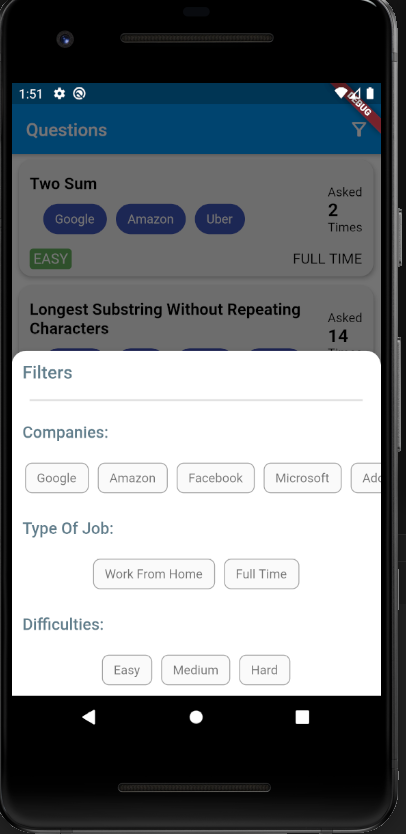
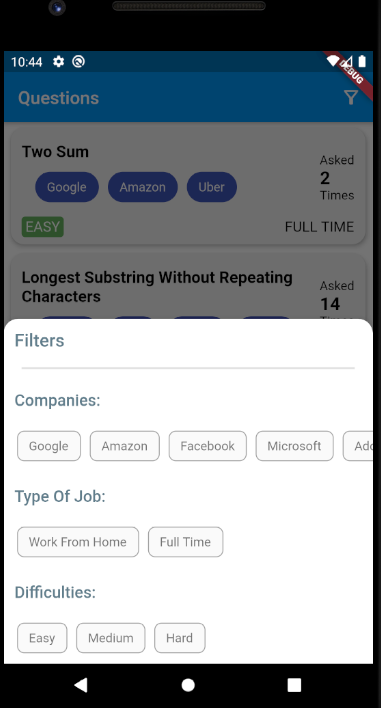
Add new screenshot

diff --git a/README.md b/README.md
@@ -34,10 +34,10 @@ The assignment involved testing the following
 
 ### Some Screens
 
-| Screen 1      | Screen 2
-|---   	|---   	
-|![](screens/screen_1.png) |![](screens/screen_2.png)
+| Screen 1      | Screen 2 | Screen 3
+|---   	|---  |---
+|![](screens/screen_1.png) |![](screens/screen_2.png)|![](screens/screen_3.png)
 
 
 ### Download
-Download the latest release from [Here](apk/latest_release.apk)
+Download the latest release from [Here](apk/latest-release.apk)
